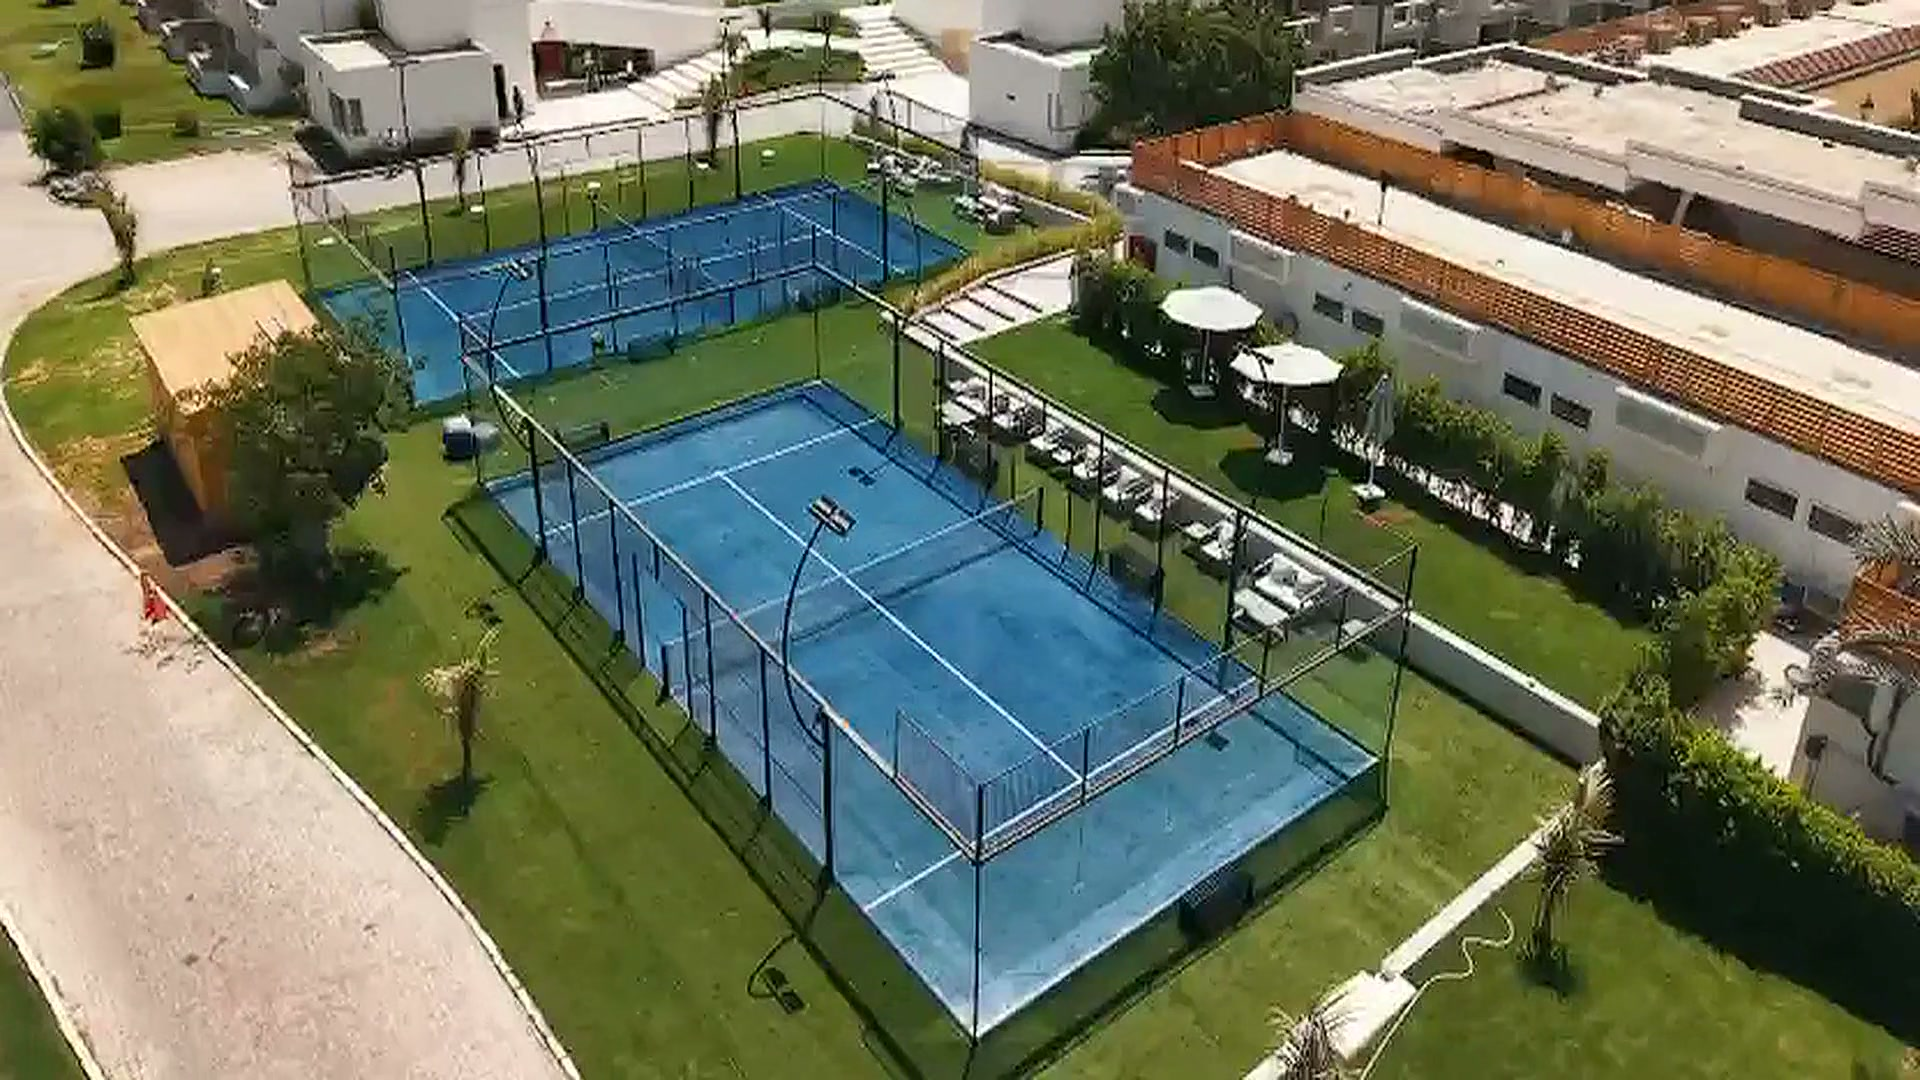
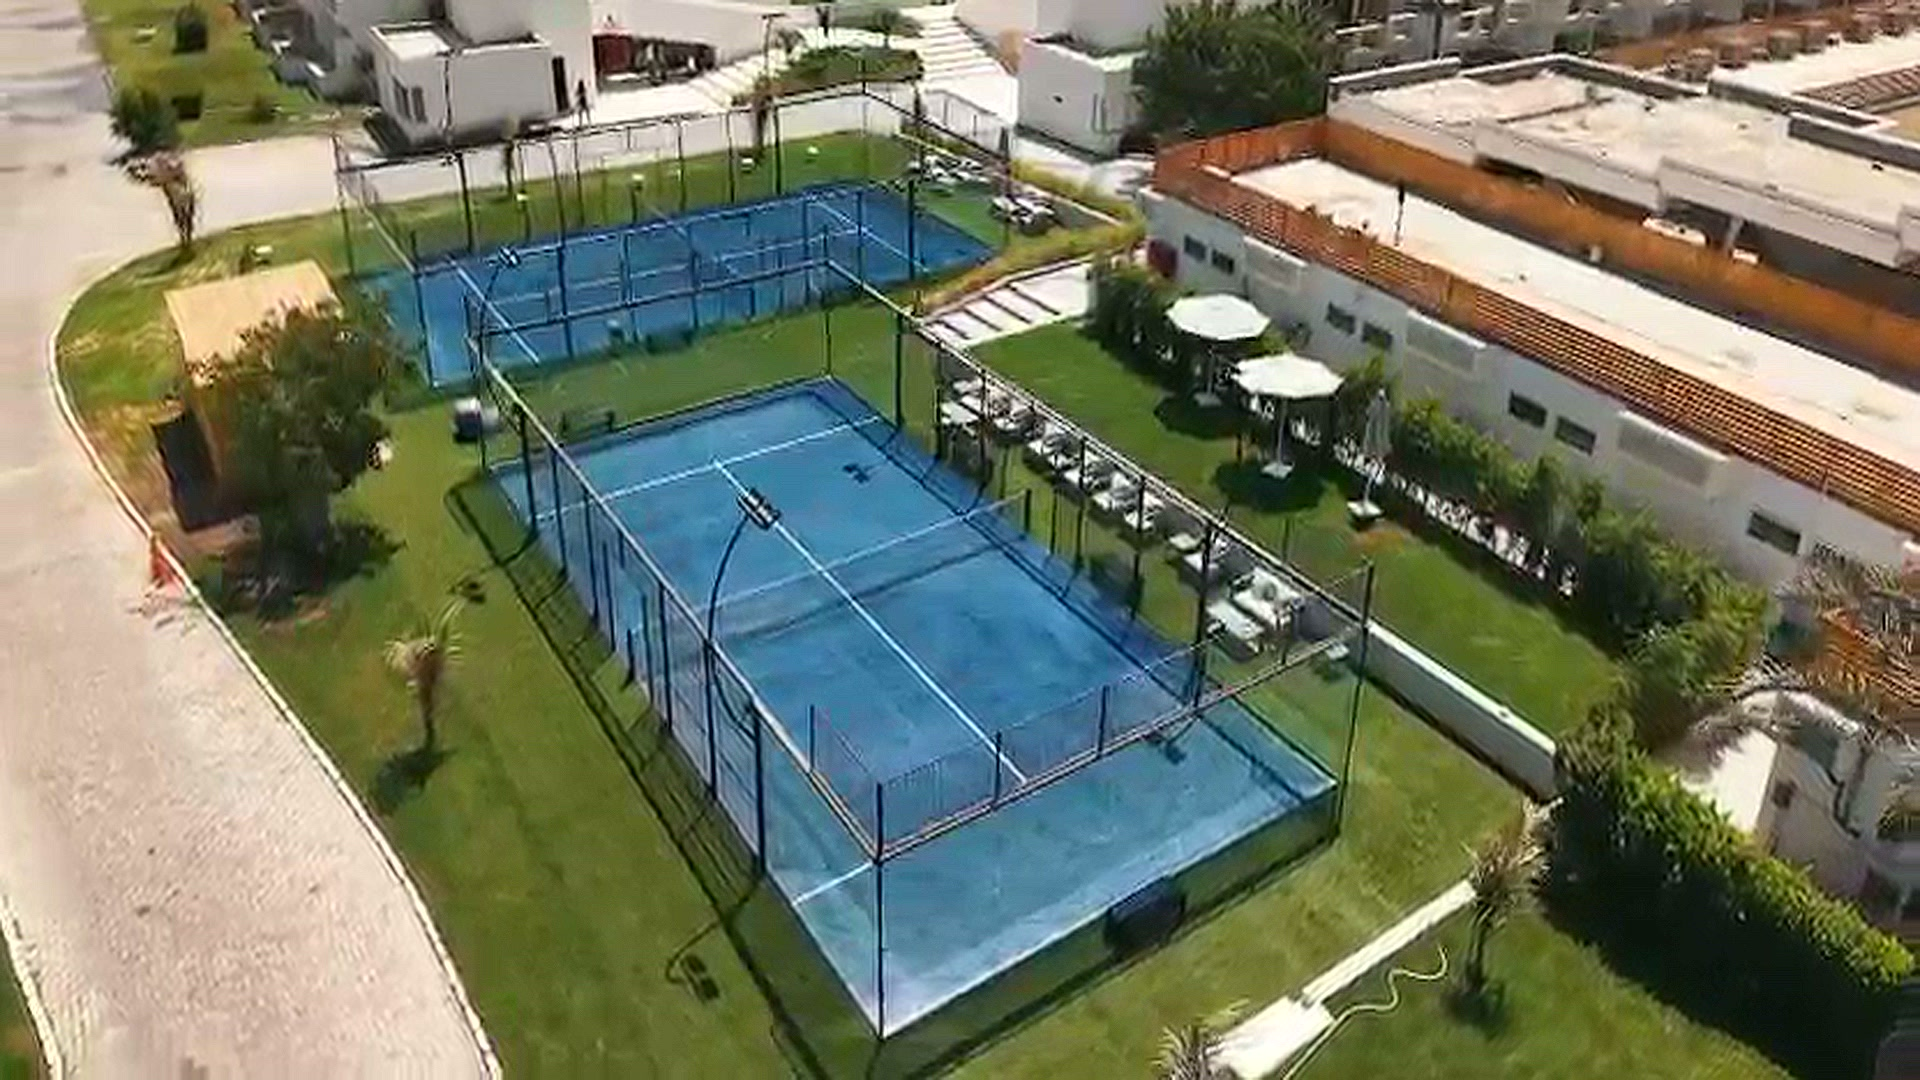
feat(hero): replace video with natural-flow slideshow featuring watermark-free high-clarity flagship court photos

diff --git a/src/components/leets/HeroVideo.tsx b/src/components/leets/HeroVideo.tsx
@@ -1,6 +1,6 @@
 "use client";
 
-import { useEffect, useRef, useState } from "react";
+import { useEffect, useState } from "react";
 import Link from "next/link";
 import { COMPANY } from "@/data/company";
 
@@ -8,122 +8,88 @@ interface HeroVideoProps {
   stats: { value: string; label: string }[];
 }
 
+const HERO_SLIDES = [
+  {
+    src: "/clubs/pyramids-park-view/hero-slides/slide-1.jpg?v=20261011_v1",
+    alt: "Pyramids Park View Flagship Championship Padel Courts",
+    label: "Championship Courts",
+  },
+  {
+    src: "/clubs/pyramids-park-view/hero-slides/slide-2.jpg?v=20261011_v1",
+    alt: "Pyramids Park View Resort and Giza Pyramids Skyline",
+    label: "Pyramids Skyline View",
+  },
+  {
+    src: "/clubs/pyramids-park-view/hero-slides/slide-3.jpg?v=20261011_v1",
+    alt: "Pro Padel Match Gear & Court Turf",
+    label: "Pro Coaching & Gear",
+  },
+  {
+    src: "/clubs/pyramids-park-view/hero-slides/slide-4.jpg?v=20261011_v1",
+    alt: "Overhead Panoramic Perspective of Padel Courts",
+    label: "Panoramic View",
+  },
+];
+
 export function HeroVideo({ stats }: HeroVideoProps) {
-  const videoRef = useRef<HTMLVideoElement>(null);
-  const userPausedRef = useRef(false);
-  const [isMuted, setIsMuted] = useState(true);
-  const [isPlaying, setIsPlaying] = useState(true);
+  const [currentSlide, setCurrentSlide] = useState(0);
 
+  // Natural flow slideshow auto-advance every 6.5 seconds
   useEffect(() => {
-    const video = videoRef.current;
-    if (!video) return;
+    const timer = setInterval(() => {
+      setCurrentSlide((prev) => (prev + 1) % HERO_SLIDES.length);
+    }, 6500);
 
-    // Force DOM attributes for Safari / iOS / low-power mobile autoplay
-    video.defaultMuted = true;
-    video.muted = true;
-    video.playsInline = true;
-    video.setAttribute("muted", "");
-    video.setAttribute("playsinline", "");
-    video.setAttribute("webkit-playsinline", "");
-
-    const playVideo = () => {
-      if (userPausedRef.current || !video) return;
-      video.muted = true;
-      const playPromise = video.play();
-      if (playPromise !== undefined) {
-        playPromise.catch(() => {
-          // Browser policy blocked unprompted autoplay (e.g. mobile battery saver).
-          // Start seamlessly on the first touch, click, or scroll anywhere on screen.
-          const onFirstInteraction = () => {
-            if (video && !userPausedRef.current) {
-              video.muted = true;
-              video.play().catch(() => {});
-            }
-          };
-
-          const events = ["touchstart", "touchend", "click", "scroll"];
-          events.forEach((evt) => {
-            window.addEventListener(evt, onFirstInteraction, { passive: true, once: true });
-          });
-        });
-      }
-    };
-
-    playVideo();
-
-    // Auto-resume if tab visibility changes or user returns to window (or bfcache back-navigation)
-    const handleVisibility = () => {
-      if (document.visibilityState === "visible" && !userPausedRef.current && video.paused) {
-        playVideo();
-      }
-    };
-
-    document.addEventListener("visibilitychange", handleVisibility);
-    window.addEventListener("focus", handleVisibility);
-    window.addEventListener("pageshow", handleVisibility);
-
-    return () => {
-      document.removeEventListener("visibilitychange", handleVisibility);
-      window.removeEventListener("focus", handleVisibility);
-      window.removeEventListener("pageshow", handleVisibility);
-    };
+    return () => clearInterval(timer);
   }, []);
 
-  const toggleMute = () => {
-    if (!videoRef.current) return;
-    const newMuted = !videoRef.current.muted;
-    videoRef.current.muted = newMuted;
-    setIsMuted(newMuted);
+  const goToSlide = (index: number) => {
+    setCurrentSlide(index);
   };
 
-  const togglePlay = () => {
-    if (!videoRef.current) return;
-    if (videoRef.current.paused) {
-      userPausedRef.current = false;
-      videoRef.current.play().then(() => setIsPlaying(true)).catch(() => {});
-    } else {
-      userPausedRef.current = true;
-      videoRef.current.pause();
-      setIsPlaying(false);
-    }
+  const nextSlide = () => {
+    setCurrentSlide((prev) => (prev + 1) % HERO_SLIDES.length);
+  };
+
+  const prevSlide = () => {
+    setCurrentSlide((prev) => (prev - 1 + HERO_SLIDES.length) % HERO_SLIDES.length);
   };
 
   return (
     <section className="relative min-h-[100dvh] flex items-center justify-center overflow-hidden">
-      {/* Background Video with Instant Poster Fallback */}
+      {/* Background Natural Flow Slideshow */}
       <div className="absolute inset-0 z-0 bg-[#0A0F1E]">
-        {/* Instant static poster background so page never has a black/blank gap */}
-        <img
-          src="/clubs/pyramids-park-view/hero-poster.jpg?v=20261010_cas_v3"
-          alt=""
-          role="presentation"
-          aria-hidden="true"
-          className="absolute inset-0 h-full w-full object-cover"
-        />
-
-        {/* Direct src prevents React child source reconciliation resets */}
-        <video
-          ref={videoRef}
-          src="/clubs/pyramids-park-view/pyramids-hero-hd.mp4?v=20261010_cas_v3"
-          autoPlay
-          muted
-          loop
-          playsInline
-          preload="auto"
-          poster="/clubs/pyramids-park-view/hero-poster.jpg?v=20261010_cas_v3"
-          className="h-full w-full object-cover"
-        />
+        {HERO_SLIDES.map((slide, index) => {
+          const isActive = index === currentSlide;
+          return (
+            <div
+              key={slide.src}
+              className={`absolute inset-0 transition-opacity duration-1000 ease-in-out ${
+                isActive ? "opacity-100 z-10" : "opacity-0 z-0 pointer-events-none"
+              }`}
+            >
+              <img
+                src={slide.src}
+                alt={slide.alt}
+                role="presentation"
+                className={`h-full w-full object-cover transform transition-transform duration-[7000ms] ease-out ${
+                  isActive ? "scale-105" : "scale-100"
+                }`}
+              />
+            </div>
+          );
+        })}
 
         {/* Clean, Crisp Scrim - Preserves high contrast and sharp details while ensuring text readability */}
-        <div className="absolute inset-0 bg-gradient-to-t from-[#0A0F1E] via-[#0A0F1E]/20 to-black/30 pointer-events-none" />
+        <div className="absolute inset-0 z-10 bg-gradient-to-t from-[#0A0F1E] via-[#0A0F1E]/25 to-black/35 pointer-events-none" />
       </div>
 
       {/* Hero Interactive Content */}
-      <div className="relative z-10 mx-auto max-w-6xl px-4 py-20 md:py-24 text-center flex flex-col items-center">
+      <div className="relative z-20 mx-auto max-w-6xl px-4 py-20 md:py-24 text-center flex flex-col items-center">
         {/* Brand Energy Pill */}
         <div className="inline-flex items-center gap-2 rounded-full border border-white/20 bg-black/40 px-4 py-1.5 backdrop-blur-md shadow-xl transition hover:border-[#EA553B]/50 hover:bg-black/60">
           <span className="font-[family-name:var(--font-display,'Barlow_Condensed')] text-xs font-bold uppercase tracking-[0.25em] text-white/95">
-            Est. 2019 · Egypt & Saudi Arabia
+            Est. 2019 · Egypt &amp; Saudi Arabia
           </span>
         </div>
 
@@ -191,43 +157,48 @@ export function HeroVideo({ stats }: HeroVideoProps) {
         </div>
       </div>
 
-      {/* Floating Media Controls (Mute / Pause) */}
-      <div className="absolute bottom-6 right-6 z-20 flex items-center gap-2">
+      {/* Floating Slideshow Controls & Progress Indicator */}
+      <div className="absolute bottom-6 right-6 z-30 flex items-center gap-2">
         <button
           type="button"
-          onClick={toggleMute}
-          aria-label={isMuted ? "Unmute court audio" : "Mute audio"}
-          title={isMuted ? "Unmute court audio" : "Mute audio"}
-          className="flex h-10 w-10 items-center justify-center rounded-full border border-white/20 bg-[#0F172A]/70 text-white/80 backdrop-blur-md transition hover:border-white/50 hover:text-white active:scale-95"
+          onClick={prevSlide}
+          aria-label="Previous slide"
+          title="Previous slide"
+          className="flex h-9 w-9 items-center justify-center rounded-full border border-white/20 bg-[#0F172A]/70 text-white/80 backdrop-blur-md transition hover:border-white/50 hover:text-white active:scale-95"
         >
-          {isMuted ? (
-            <svg className="h-4 w-4" fill="none" viewBox="0 0 24 24" stroke="currentColor">
-              <path strokeLinecap="round" strokeLinejoin="round" strokeWidth={2} d="M5.586 15H4a1 1 0 01-1-1v-4a1 1 0 011-1h1.586l4.707-4.707C10.923 3.663 12 4.109 12 5v14c0 .891-1.077 1.337-1.707.707L5.586 15z" />
-              <path strokeLinecap="round" strokeLinejoin="round" strokeWidth={2} d="M17 14l2-2m0 0l2-2m-2 2l-2-2m2 2l2 2" />
-            </svg>
-          ) : (
-            <svg className="h-4 w-4 text-[#EA553B]" fill="none" viewBox="0 0 24 24" stroke="currentColor">
-              <path strokeLinecap="round" strokeLinejoin="round" strokeWidth={2} d="M15.536 8.464a5 5 0 010 7.072m2.828-9.9a9 9 0 010 12.728M5.586 15H4a1 1 0 01-1-1v-4a1 1 0 011-1h1.586l4.707-4.707C10.923 3.663 12 4.109 12 5v14c0 .891-1.077 1.337-1.707.707L5.586 15z" />
-            </svg>
-          )}
+          <svg className="h-4 w-4" fill="none" viewBox="0 0 24 24" stroke="currentColor">
+            <path strokeLinecap="round" strokeLinejoin="round" strokeWidth={2.5} d="M15 19l-7-7 7-7" />
+          </svg>
         </button>
+
+        {/* Slide Dots / Indicators */}
+        <div className="flex items-center gap-1.5 px-2 py-1 rounded-full bg-[#0F172A]/70 border border-white/15 backdrop-blur-md">
+          {HERO_SLIDES.map((slide, idx) => (
+            <button
+              key={slide.src}
+              type="button"
+              onClick={() => goToSlide(idx)}
+              aria-label={`Go to slide ${idx + 1}: ${slide.label}`}
+              title={slide.label}
+              className={`h-2 rounded-full transition-all duration-300 ${
+                idx === currentSlide
+                  ? "w-6 bg-[#EA553B]"
+                  : "w-2 bg-white/40 hover:bg-white/70"
+              }`}
+            />
+          ))}
+        </div>
 
         <button
           type="button"
-          onClick={togglePlay}
-          aria-label={isPlaying ? "Pause video" : "Play video"}
-          title={isPlaying ? "Pause video" : "Play video"}
-          className="flex h-10 w-10 items-center justify-center rounded-full border border-white/20 bg-[#0F172A]/70 text-white/80 backdrop-blur-md transition hover:border-white/50 hover:text-white active:scale-95"
+          onClick={nextSlide}
+          aria-label="Next slide"
+          title="Next slide"
+          className="flex h-9 w-9 items-center justify-center rounded-full border border-white/20 bg-[#0F172A]/70 text-white/80 backdrop-blur-md transition hover:border-white/50 hover:text-white active:scale-95"
         >
-          {isPlaying ? (
-            <svg className="h-4 w-4" fill="none" viewBox="0 0 24 24" stroke="currentColor">
-              <path strokeLinecap="round" strokeLinejoin="round" strokeWidth={2} d="M10 9v6m4-6v6" />
-            </svg>
-          ) : (
-            <svg className="h-4 w-4 text-[#EA553B]" fill="none" viewBox="0 0 24 24" stroke="currentColor">
-              <path strokeLinecap="round" strokeLinejoin="round" strokeWidth={2} d="M14.752 11.168l-3.197-2.132A1 1 0 0010 9.87v4.263a1 1 0 001.555.832l3.197-2.132a1 1 0 000-1.664z" />
-            </svg>
-          )}
+          <svg className="h-4 w-4" fill="none" viewBox="0 0 24 24" stroke="currentColor">
+            <path strokeLinecap="round" strokeLinejoin="round" strokeWidth={2.5} d="M9 5l7 7-7 7" />
+          </svg>
         </button>
       </div>
     </section>
